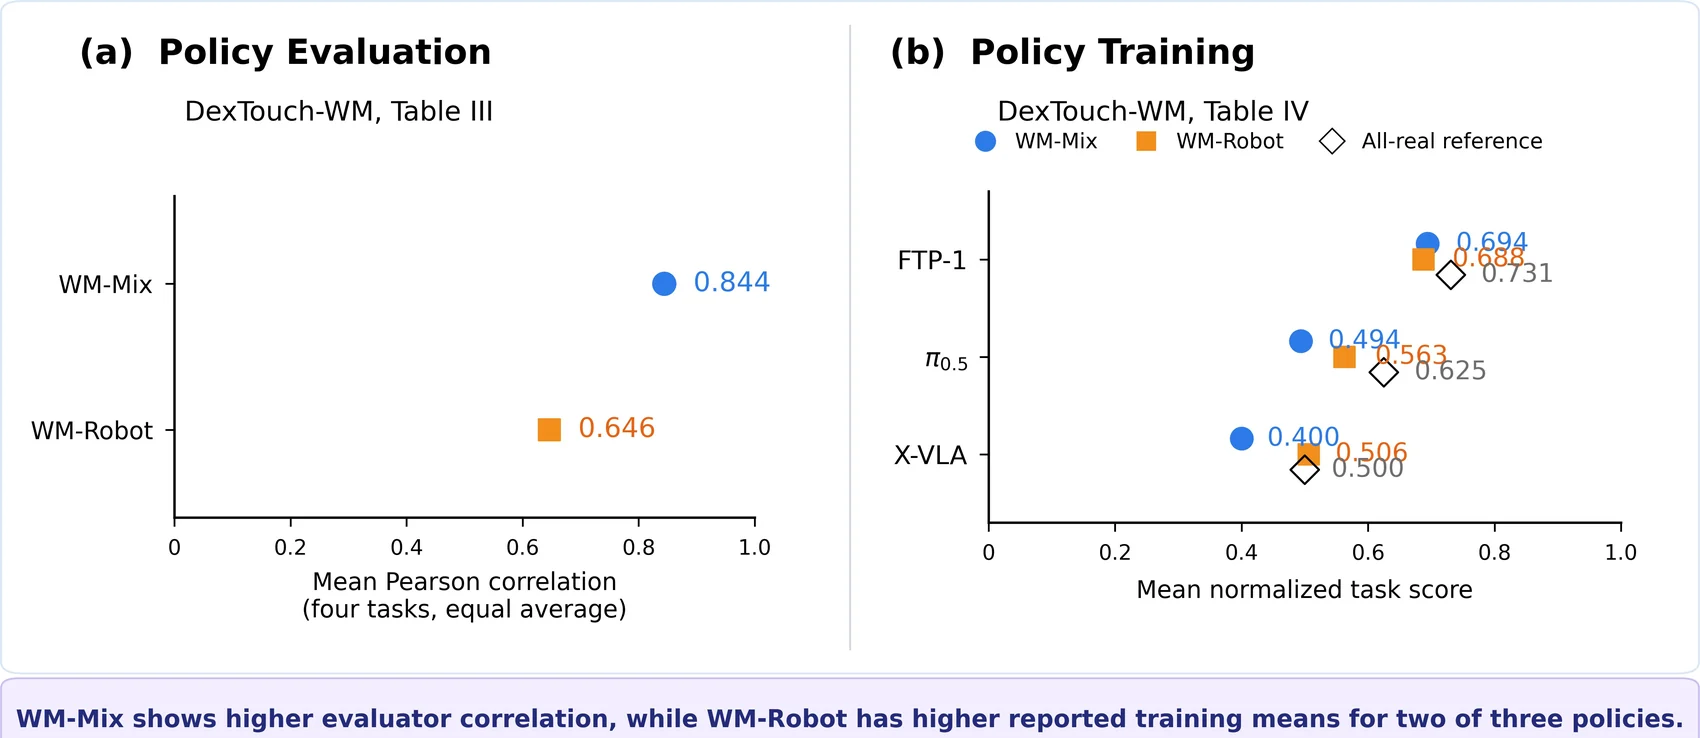
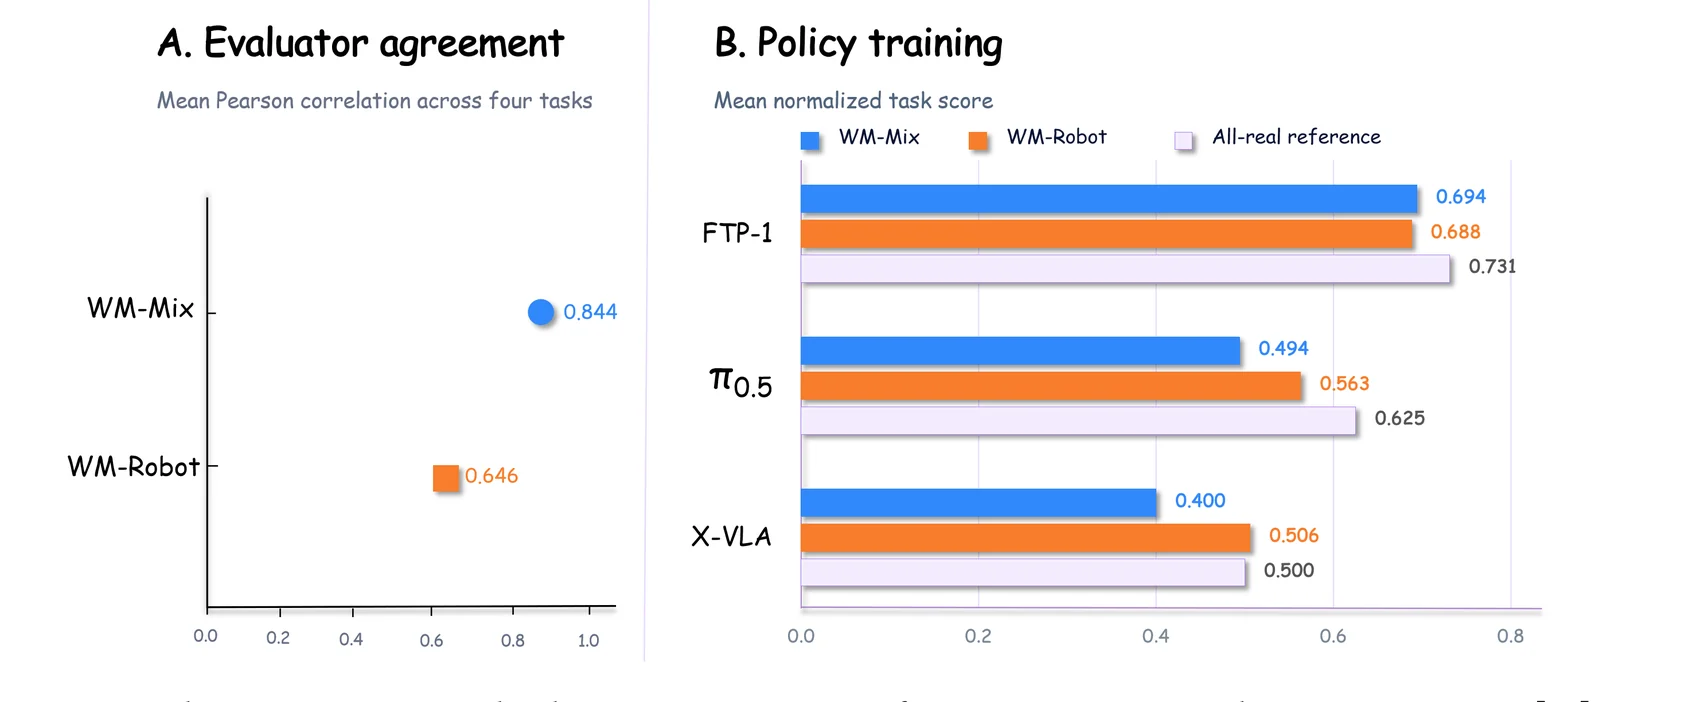
Update to the 8 Nov revision of the manuscript
The 8 Nov PDF is a structural revision, not a polish pass. The page was rebuilt
against it.

Manuscript changes that forced page changes
- Tables 7 -> 5. The synthesis table (consumer evidence + diagnostic cases) and
  the prior-surveys table were removed, and the rest renumbered. The page's
  Evidence section was a screenshot of that deleted table, so the section and
  its asset are gone.
- Figures 6 -> 7. The landscape figure was redrawn as an "illustrative map of
  prediction for acting, model-based planning and learning, and evaluation
  resources", and a new Fig. 3 was added for the data/representation overview.
  Fast-WAM, design-to-evidence, evaluator and execution figures were redrawn
  too (Fast-WAM now shows the prediction loss and frozen encoder; the evaluator
  figure is a bar chart rather than a scatter).
- The review-protocol apparatus is gone: no Coverage Corpus, no 758 families,
  no Core Evidence Set. The hero note and footer that quoted those numbers were
  removed.
- The abstract's opening now distinguishes action-conditioned models from
  passive ones; the page's abstract follows that wording.

How the figures were produced
Windows' built-in PDF renderer (Windows.Data.Pdf) was driven from PowerShell to
render the figure pages at 300 DPI, then each figure was cropped by detecting
its coloured-pixel bounding box with enough padding to keep axis labels. No
third-party tooling, no screenshots by hand. Crops exported to WebP q86 at
[…]

diff --git a/index.html b/index.html
@@ -52,8 +52,8 @@
     <nav class="nav-links" aria-label="Sections">
       <a href="#abstract">Abstract</a>
       <a href="#landscape">Landscape</a>
+      <a href="#data">Data</a>
       <a href="#mechanisms">Mechanisms</a>
-      <a href="#evidence">Evidence</a>
       <a href="#challenges">Open problems</a>
       <a href="#cite">Cite</a>
     </nav>
@@ -78,9 +78,6 @@
 
     <p class="authors"><span>Anonymous Author(s)</span></p>
     <p class="affil">Manuscript submitted for review &nbsp;·&nbsp; 2026</p>
-    <p class="author-note">
-      Coverage Corpus 758 publication families &nbsp;·&nbsp; Core Evidence Set 17 study families
-    </p>
 
     <div class="cta">
       <a class="btn btn-primary" href="#cite">
@@ -91,23 +88,24 @@
         <svg viewBox="0 0 24 24" fill="currentColor" aria-hidden="true"><path d="M12 .5A11.5 11.5 0 0 0 8.4 22.9c.6.1.8-.2.8-.6v-2c-3.3.7-4-1.6-4-1.6-.6-1.4-1.4-1.8-1.4-1.8-1-.7 0-.7 0-.7 1.2.1 1.8 1.2 1.8 1.2 1 1.8 2.8 1.3 3.5 1 .1-.8.4-1.3.7-1.6-2.7-.3-5.5-1.3-5.5-6 0-1.3.5-2.4 1.2-3.2-.1-.3-.5-1.5.1-3.2 0 0 1-.3 3.3 1.2a11.5 11.5 0 0 1 6 0C17.2 4.7 18.2 5 18.2 5c.6 1.7.2 2.9.1 3.2.8.8 1.2 1.9 1.2 3.2 0 4.7-2.8 5.7-5.5 6 .4.4.8 1.1.8 2.2v3.3c0 .4.2.7.8.6A11.5 11.5 0 0 0 12 .5z"/></svg>
         GitHub
       </a>
-      <a class="btn" href="#evidence">Evidence</a>
+      <a class="btn" href="#mechanisms">Mechanisms</a>
       <a class="btn" href="#cite">BibTeX</a>
     </div>
   </div>
 </section>
 
-<!-- ======================= Abstract + findings + organization ======================= -->
+<!-- ======================= Abstract ======================= -->
 <section id="abstract">
   <div class="wrap">
     <div class="sec-head prose">
       <p class="sec-kicker">Abstract</p>
       <h2>What this survey argues</h2>
       <p class="dropcap">
-        World models, which predict how environments evolve under actions, increasingly support
-        simulation, policy learning, planning, and evaluation in physical AI. However, differences in
-        representations, action interfaces, and evaluation protocols obscure when better predictions
-        yield better decisions.
+        World models predict environmental evolution; action-conditioned variants model the
+        consequences of specified actions. These models increasingly support simulation, policy
+        learning, planning, and evaluation in physical AI. However, differences in representations,
+        action interfaces, and evaluation protocols obscure when better predictions yield better
+        decisions.
       </p>
       <p>
         This survey reviews data foundations, modeling approaches, and applications in robotics,
@@ -165,9 +163,9 @@
 
     <figure class="fig-zoom reveal">
       <a href="assets/fig-overview.webp" target="_blank" rel="noopener">
-        <img src="assets/fig-overview.webp" alt="Organization of the four-part survey: foundations, data and representations, learning and decision making, evaluation and synthesis" width="1586" height="992" loading="lazy" decoding="async">
+        <img src="assets/fig-overview.webp" alt="Organization of the four-part survey: foundations, data and representations, learning and decision making, evaluation and synthesis" width="1700" height="1003" loading="lazy" decoding="async">
       </a>
-      <figcaption><b>Figure 1.</b> Organization of the four-part survey. Each band is one part; the right column lists its sub-topics. Scenes and curves are conceptual illustrations, not reported experiments.</figcaption>
+      <figcaption><b>Figure 1.</b> Organization of the four-part survey. Scenes and curves are conceptual illustrations, not reported experiments; prediction quality, decision utility, and execution reliability require distinct evaluation.</figcaption>
     </figure>
   </div>
 </section>
@@ -187,9 +185,9 @@
 
     <figure class="fig-zoom reveal">
       <a href="assets/fig-landscape.webp" target="_blank" rel="noopener">
-        <img src="assets/fig-landscape.webp" alt="Representative studies arranged by publication period and by prediction consumer, spanning prediction for acting and world models as simulator" width="1700" height="840" loading="lazy" decoding="async">
+        <img src="assets/fig-landscape.webp" alt="Illustrative map of prediction for acting, model-based planning and learning, and evaluation resources" width="1700" height="849" loading="lazy" decoding="async">
       </a>
-      <figcaption><b>Figure 2.</b> Representative studies arranged by first public appearance or publication period and by prediction consumer. Roles are nonexclusive: the same study may appear in multiple tracks.</figcaption>
+      <figcaption><b>Figure 2.</b> Illustrative map of prediction for acting, model-based planning and learning, and evaluation resources. Open X-Embodiment is a data resource; LIBERO, CALVIN, RLBench, and ManiSkill are benchmarks or simulation resources. Positions indicate thematic relationships; preprint and publication years may differ.</figcaption>
     </figure>
 
     <div class="grid g2">
@@ -197,7 +195,7 @@
         <h3>Grouped by consumer, not architecture</h3>
         <p>
           Four columns generate actions — predict-then-act, shared backbone, unified VLA, latent
-          world modeling. Two serve as learned environments: policy learning and policy evaluation.
+          world modeling. Two serve as learned environments: policy learning and evaluation.
         </p>
       </article>
       <article class="card reveal">
@@ -205,6 +203,46 @@
         <p>
           PlaNet and Dreamer appear both under predict-then-act and under latent world modeling. One
           system can occupy several columns, which is why a single taxonomy of <em>models</em> fails.
+        </p>
+      </article>
+    </div>
+  </div>
+</section>
+
+<!-- ======================= Data and representations ======================= -->
+<section id="data">
+  <div class="wrap">
+    <div class="sec-head prose">
+      <p class="sec-kicker">Data and representations</p>
+      <h2>Broad video is not yet a command interface</h2>
+      <p>
+        The second part connects data sources, predictive representations, downstream uses, and
+        generalization. Its point is a bridge: a model trained on observed motion still needs a path
+        to executable commands.
+      </p>
+    </div>
+
+    <figure class="fig-zoom reveal">
+      <a href="assets/fig-data-map.webp" target="_blank" rel="noopener">
+        <img src="assets/fig-data-map.webp" alt="Overview of data sources, predictive representations, downstream uses, and generalization" width="1700" height="896" loading="lazy" decoding="async">
+      </a>
+      <figcaption><b>Figure 3.</b> Overview of data sources, predictive representations, downstream uses, and generalization. Broad video experience needs a bridge to executable commands.</figcaption>
+    </figure>
+
+    <div class="grid g2">
+      <article class="card reveal">
+        <h3>Two ways to bridge from video to commands</h3>
+        <p>
+          V-JEPA 2 freezes an action-free pretrained encoder, then trains a predictor on synchronized
+          robot observations and end-effector changes. DreamDojo learns latent-action proxies from
+          human video, then replaces them with robot actions in post-training.
+        </p>
+      </article>
+      <article class="card reveal">
+        <h3>Graph models update state, they do not acquire it</h3>
+        <p>
+          GNS and MeshGraphNets integrate predicted accelerations or node outputs from a supplied
+          physical state, so state acquisition sits outside what they test.
         </p>
       </article>
     </div>
@@ -234,9 +272,9 @@
 
     <figure class="fig-zoom reveal">
       <a href="assets/fig-interfaces.webp" target="_blank" rel="noopener">
-        <img src="assets/fig-interfaces.webp" alt="Training and deployment information paths for Fast-WAM Base, V-JEPA Policy and Fast-WAM Joint" width="1665" height="752" loading="lazy" decoding="async">
+        <img src="assets/fig-interfaces.webp" alt="Training and deployment information paths for Fast-WAM Base, V-JEPA Policy and Fast-WAM Joint" width="1700" height="875" loading="lazy" decoding="async">
       </a>
-      <figcaption><b>Figure 3.</b> Training and deployment information paths in Fast-WAM Base, V-JEPA Policy and Fast-WAM Joint. Base and Joint are configurations of one study. The schematic omits V-JEPA's future-supervision path and some inputs; block shading does not denote parameter freezing.</figcaption>
+      <figcaption><b>Figure 4.</b> Training and deployment information paths in Fast-WAM Base, V-JEPA Policy, and Fast-WAM Joint. Base and Joint are configurations of one study. V-JEPA Policy uses future-latent supervision during training and predictor context during action generation.</figcaption>
     </figure>
 
     <div class="grid g2">
@@ -282,16 +320,16 @@
 
     <figure class="fig-zoom reveal">
       <a href="assets/fig-claim-evidence.webp" target="_blank" rel="noopener">
-        <img src="assets/fig-claim-evidence.webp" alt="From world-model design to claim-matched evidence: the three design axes above, and below them three evidence contrasts pairing GNS with ContactWorld, DexTouch evaluation with training, and FutureRTC with TacPAC" width="1672" height="941" loading="lazy" decoding="async">
+        <img src="assets/fig-claim-evidence.webp" alt="From world-model design to claim-matched evidence: the three design axes above, and below them three evidence contrasts pairing GNS with ContactWorld, DexTouch evaluation with training, and FutureRTC with TacPAC" width="1700" height="836" loading="lazy" decoding="async">
       </a>
-      <figcaption><b>Figure 4.</b> From world-model design to claim-matched evidence. Three contrasts distinguish recursive-prediction fidelity from planning utility, evaluator agreement from policy-training outcomes, and execution-time anticipation from correction. GNS/ContactWorld and FutureRTC/TacPAC are independent study examples, not matched head-to-head experiments; the visual separators group examples only.</figcaption>
+      <figcaption><b>Figure 5.</b> From world-model design to claim-matched evidence. Three contrasts distinguish recursive fidelity from planning utility, evaluator agreement from training outcomes, and execution-time anticipation from correction. GNS/ContactWorld and FutureRTC/TacPAC are independent studies rather than matched experiments.</figcaption>
     </figure>
 
     <figure class="fig-zoom reveal">
       <a href="assets/fig-eval-train.webp" target="_blank" rel="noopener">
-        <img src="assets/fig-eval-train.webp" alt="Panel a: mean Pearson correlation of evaluator agreement for WM-Mix and WM-Robot. Panel b: mean normalized task score for three policies trained with WM-Mix, WM-Robot, and an all-real reference" width="1700" height="738" loading="lazy" decoding="async">
+        <img src="assets/fig-eval-train.webp" alt="Panel A: mean Pearson correlation of evaluator agreement for WM-Mix and WM-Robot. Panel B: mean normalized task score for three policies trained with WM-Mix, WM-Robot, and an all-real reference" width="1700" height="702" loading="lazy" decoding="async">
       </a>
-      <figcaption><b>Figure 5.</b> Evaluator agreement versus policy-training utility, using four-task means from DexTouch-WM's separate Tables III and IV. Imagined-data recipes use 100 real plus 100 imagined trajectories; the all-real reference uses 200 real trajectories.</figcaption>
+      <figcaption><b>Figure 6.</b> Evaluator agreement and policy-training outcomes from separate DexTouch-WM experiments. Panel (a) shows four-task mean evaluator Pearson correlations from Table III; panel (b) plots four-task mean normalized training scores computed from Table IV. Imagined-data conditions use 100 real plus 100 imagined trajectories; the all-real reference uses 200 real trajectories.</figcaption>
     </figure>
 
     <div class="grid g2">
@@ -323,9 +361,9 @@
 
     <figure class="fig-zoom reveal">
       <a href="assets/fig-execution.webp" target="_blank" rel="noopener">
-        <img src="assets/fig-execution.webp" alt="FutureRTC anticipating execution-time context and TacPAC correcting an unexecuted suffix with fresh tactile feedback" width="1649" height="906" loading="lazy" decoding="async">
+        <img src="assets/fig-execution.webp" alt="FutureRTC anticipating execution-time context and TacPAC combining fresh tactile feedback with cached predictive context to correct an unexecuted action suffix" width="1700" height="794" loading="lazy" decoding="async">
       </a>
-      <figcaption><b>Figure 6.</b> Execution-time context anticipation in FutureRTC and feedback-based suffix correction in TacPAC. The schematic is not a shared latency scale: the two panels illustrate different mechanisms, not comparable timings.</figcaption>
+      <figcaption><b>Figure 7.</b> FutureRTC anticipates execution-time context; TacPAC combines fresh tactile feedback with cached predictive context to correct an unexecuted action suffix. The executed prefix is unchanged. The panels illustrate distinct mechanisms on schematic, not comparable, timelines.</figcaption>
     </figure>
 
     <div class="grid g2">
@@ -344,28 +382,6 @@
         </p>
       </article>
     </div>
-  </div>
-</section>
-
-<!-- ======================= Evidence table ======================= -->
-<section id="evidence">
-  <div class="wrap">
-    <div class="sec-head prose">
-      <p class="sec-kicker">Evidence</p>
-      <h2>The table behind these claims</h2>
-      <p>
-        Each consumer, the contrast that supports it, and the boundary that limits what the contrast
-        settles. Panel B names the couplings the literature has not separated, with the control that
-        would separate them.
-      </p>
-    </div>
-
-    <figure class="fig-zoom fig-narrow reveal">
-      <a href="assets/table7.png" target="_blank" rel="noopener">
-        <img src="assets/table7.png" alt="Table 7: Panel A reports consumer evidence for simulation, learning, evaluation, planning and correction; Panel B states the residual couplings and the next control for cases A, B and C" width="719" height="439" loading="lazy" decoding="async">
-      </a>
-      <figcaption><b>Table 1.</b> Consumer evidence (Panel A) and diagnostic cases (Panel B). Panel A is reported evidence, including adverse outcomes; in Panel B only the <em>Next control</em> column proposes experiments, and none has been run. Source: manuscript Table 7.</figcaption>
-    </figure>
   </div>
 </section>
 
@@ -409,9 +425,8 @@
         <span class="card-num">04</span>
         <h3>Sampling bias</h3>
         <p>
-          The Core Evidence Set is mechanism-focused, not representative. The prevalence of benefits
-          and failures cannot be inferred from it, and inclusion rationales were recorded
-          retrospectively.
+          The evidence set is mechanism-focused, not representative. The prevalence of benefits and
+          failures cannot be inferred from it, and inclusion rationales were recorded retrospectively.
         </p>
       </article>
     </div>
@@ -434,9 +449,7 @@
              Plan, and Act in the Real World},
   author  = {Anonymous Author(s)},
   journal = {Manuscript submitted for review},
-  year    = {2026},
-  note    = {Coverage Corpus: 758 publication families;
-             Core Evidence Set: 17 study families}
+  year    = {2026}
 }</code></pre>
     </div>
   </div>
@@ -450,11 +463,11 @@
     <div>
       <p><strong>World Models for Physical AI</strong> — survey site</p>
       <p>© <span id="year">2026</span>. Tables reproduce selected results from the manuscript; consult the paper for authoritative values.</p>
-      <p>Page last updated: <span id="updated">2026-10-24</span></p>
+      <p>Page last updated: <span id="updated">2026-11-08</span></p>
     </div>
     <div>
-      <p><strong>Scope</strong></p>
-      <p>Coverage Corpus 758 families · Core Evidence Set 17 families</p>
+      <p><strong>Note</strong></p>
+      <p>Figures are the manuscript's own diagrams. Every number on this page is a within-study anchor.</p>
       <p>No cookies, no tracking, no third-party requests.</p>
     </div>
   </div>

diff --git a/README.md b/README.md
@@ -17,10 +17,10 @@ one claim and is anchored by one figure taken from the manuscript:
 
 | Section | Anchor | Claim it makes |
 |---|---|---|
-| Abstract | — | The thesis, the three gaps, and how the survey is organised (Fig. 1) |
+| Abstract | Fig. 1 | The thesis, the three gaps, and how the survey is organised |
 | Research landscape | Fig. 2 | Six directions, grouped by consumer rather than architecture |
-| Where prediction enters | Figs. 3–6 | Three interfaces, three different quantities measured |
-| Evidence | Table 7 | The contrasts behind the claims, and what remains unrun |
+| Data and representations | Fig. 3 | Broad video is not yet a command interface |
+| Where prediction enters | Figs. 4–7 | Three interfaces, three different quantities measured |
 | Open problems | — | Four gaps the survey cannot settle |
 | Citation | — | BibTeX |
 
@@ -28,10 +28,10 @@ The three cross-study findings appear once, as the card row under the abstract, 
 *elaborated* by figures rather than restated. An earlier draft repeated them in a separate Findings
 section and again in a Synthesis row, which is what made the page read as long.
 
-**Figure numbering matches the manuscript 1:1.** Page Figures 1–6 are the manuscript's Figures 1–6,
-and the only table on the page is the manuscript's Table 7 (labelled Table 1 here). The manuscript's
-Figure 4 was missing from an earlier PDF revision and is now included; if a future revision drops or
-renumbers a figure, update the `<figcaption>` labels so this correspondence stays true.
+**Figure numbering matches the manuscript 1:1.** Page Figures 1–7 are the manuscript's Figures 1–7.
+There is no table on the page: an earlier revision reproduced a screenshot of the manuscript's
+synthesis table, which the 8 Nov revision removed, so the section went with it. If a future
+revision renumbers figures, update the <figcaption> labels so this correspondence stays true.
 
 ## Repository layout
 
